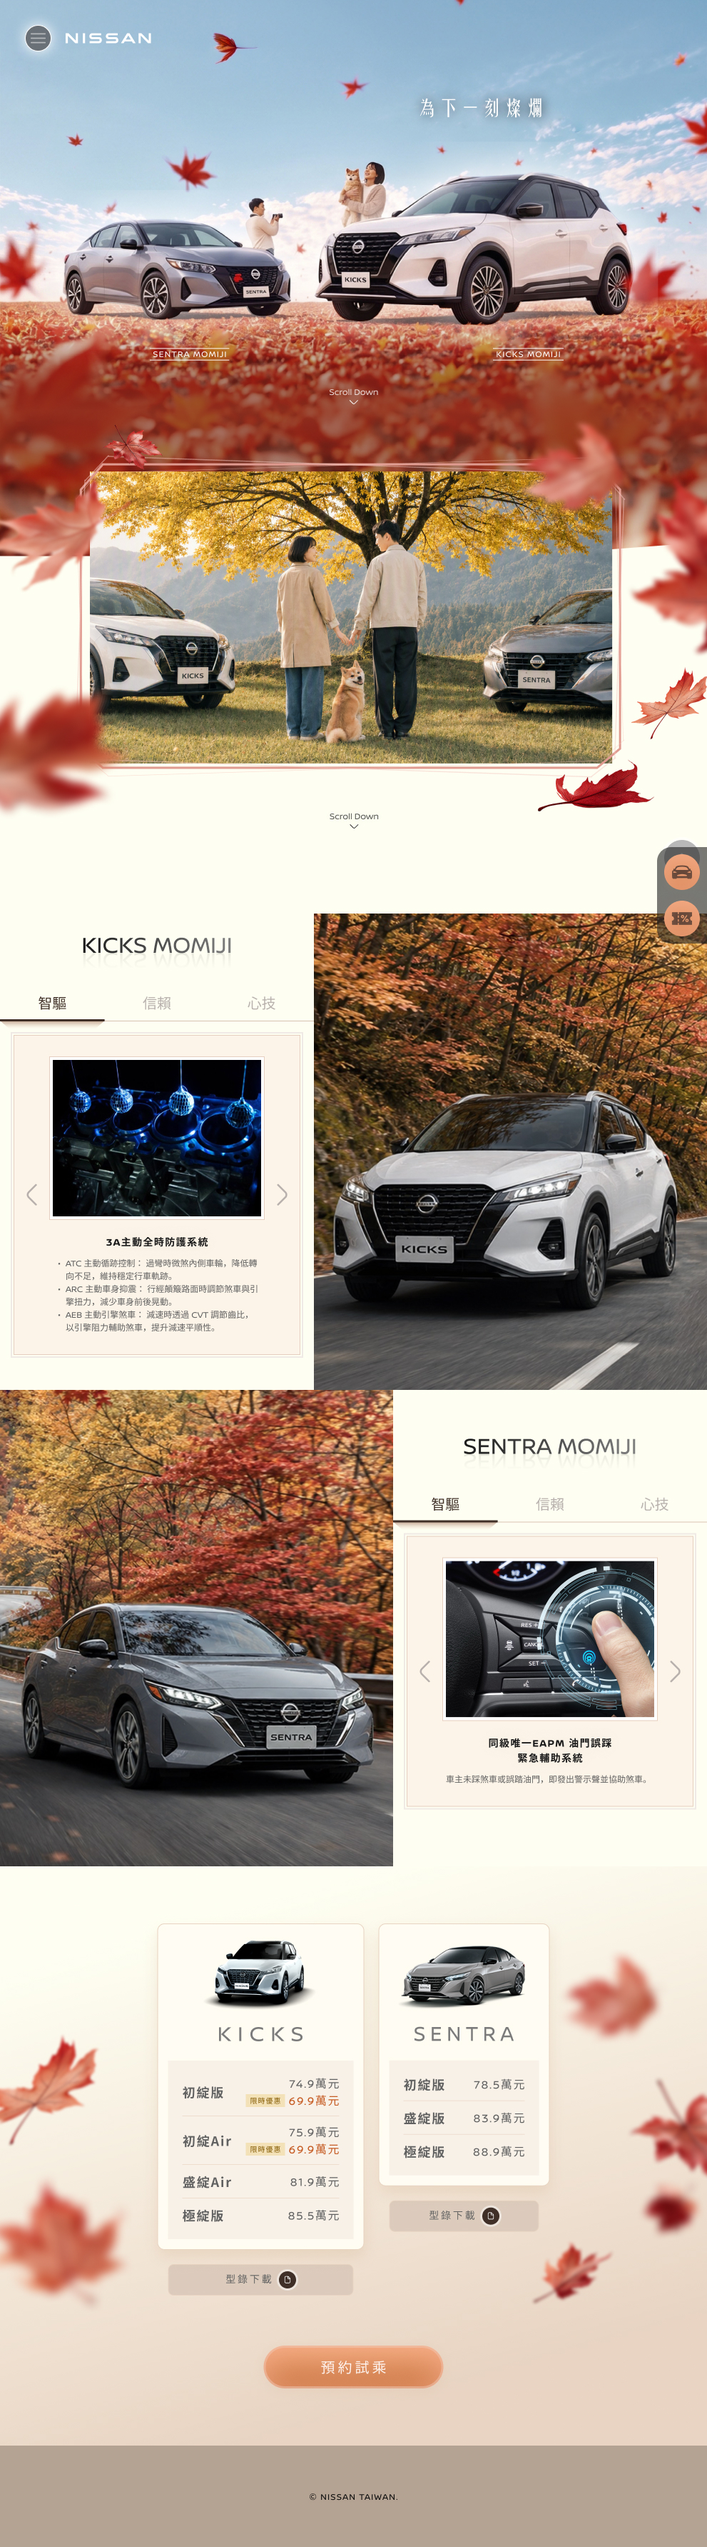
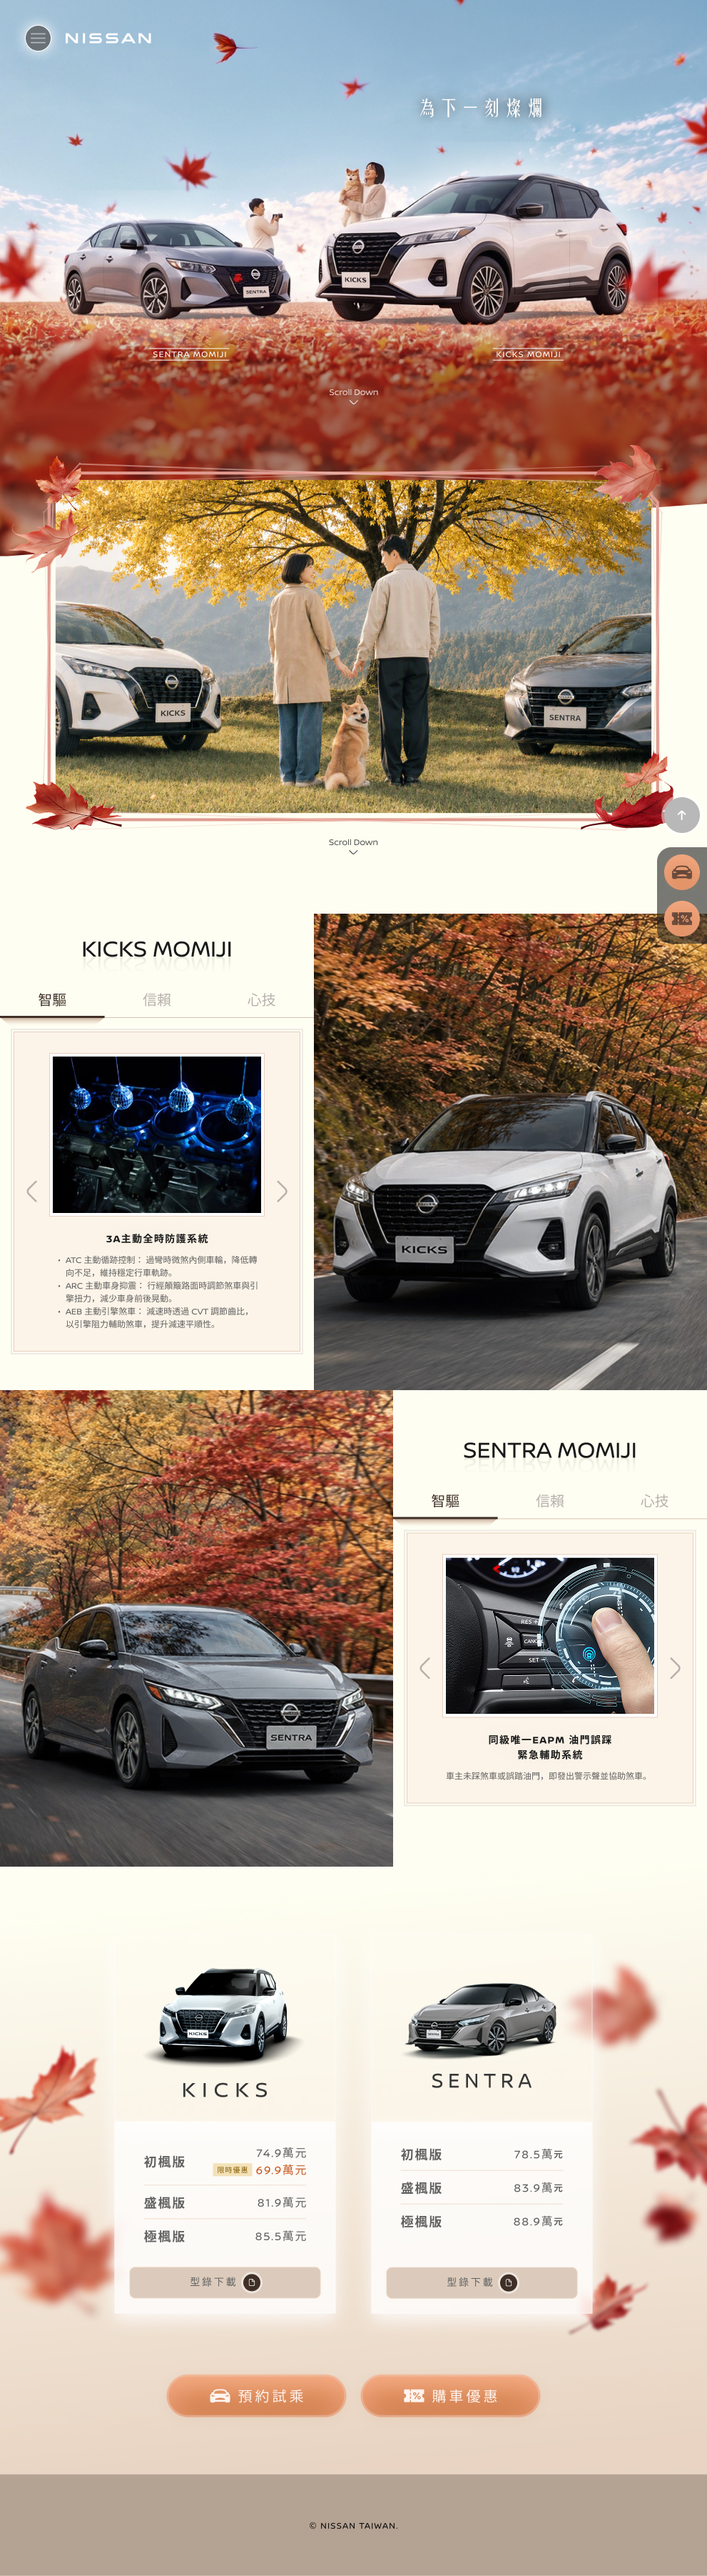
Add files via upload

diff --git a/demo/test3.html b/demo/test3.html
@@ -15,11 +15,11 @@
 
         /* 飄落效果 */
         #falling-canvas {
-            position: fixed;
+            position: absolute;
             top: 0;
             left: 0;
             width: 100%;
-            height: 100%;
+            height: 150%;
             pointer-events: none; 
             z-index: 9999;
             display: block;
@@ -180,11 +180,11 @@ class Petal {
         // 楓葉大小（巨型約 130-160px，標準約 50-70px）
         const isGiant = Math.random() < 0.4; 
         if (isGiant) {
-            this.size = Math.random() * 30 + 130; 
+            this.size = Math.random() * 30 + 60; 
             this.blur = Math.random() * 6 + 4;   
             this.baseVy = Math.random() * 0.3 + 0.2; 
         } else {
-            this.size = Math.random() * 20 + 50;  
+            this.size = Math.random() * 20 + 20;  
             this.blur = Math.random() * 1.5 + 0.5;   
             this.baseVy = Math.random() * 0.6 + 0.4; 
         }
